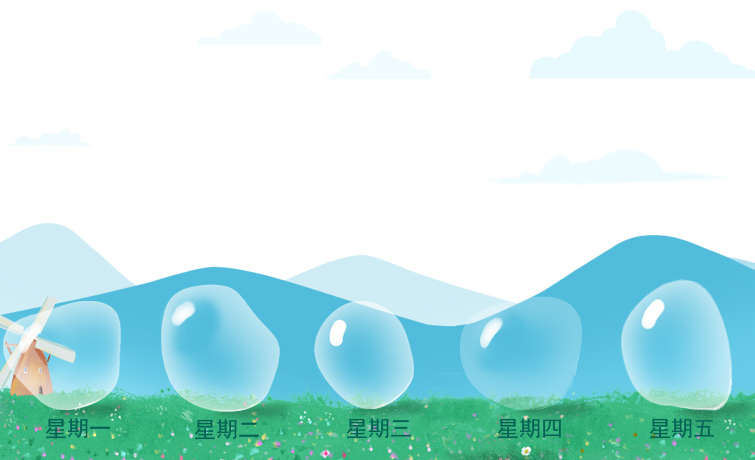
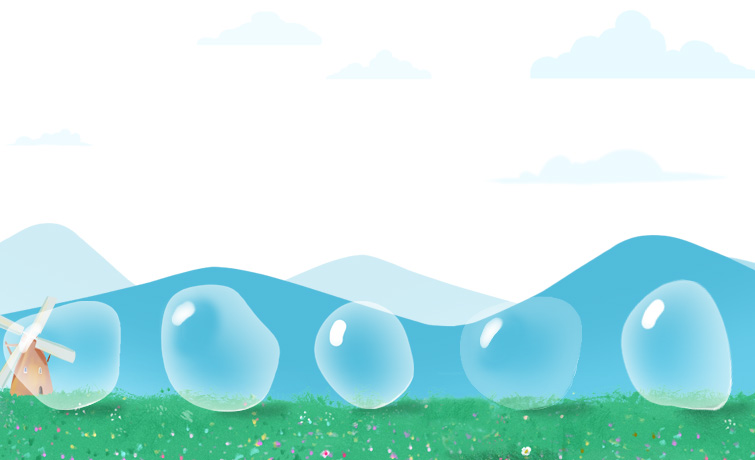
refactor duty-week-graph

diff --git a/src/views/WorkbenchSchoolRun.page.vue b/src/views/WorkbenchSchoolRun.page.vue
@@ -83,6 +83,142 @@
       </v-layout>
     </v-card>
 
+    <!-- duty graph -->
+    <v-card class="pa-3 mb-3">
+      <v-layout column>
+        <v-flex>
+          <v-layout row wrap>
+            <v-flex shrink>
+              <v-tabs v-model="model" centered slider-color="primary">
+                <v-tab href="#tab-1">
+                  值周
+                </v-tab>
+              </v-tabs>
+            </v-flex>
+          </v-layout>
+        </v-flex>
+        <v-flex>
+          <v-tabs-items v-model="model" class="pt-3">
+            <v-tab-item value="tab-1">
+              <v-card v-if="hasClasses" flat>
+                <!-- duty check one week -->
+                <!-- deduction week history graph -->
+                <div v-if="hasHistory" class="chart-wrapper fill-width pb-3">
+                  <h3 class="mb-2 duty-check-title">
+                    上周综合得分
+                    <span class="accent--text text--darken-2">8.5分</span>
+                  </h3>
+                  <div class="duty-check-image">
+                    <v-layout row wrap class="duty-check-content">
+                      <v-flex
+                        class="text-xs-center"
+                        v-for="(score, index) in currentCheckItem.scores"
+                        :key="score"
+                      >
+                        <div class="white--text display-1">
+                          {{ score }}
+                        </div>
+                        <div class="pt-3">{{ getDayName(index) }}</div>
+                      </v-flex>
+                    </v-layout>
+                  </div>
+                </div>
+                <div v-if="!hasHistory" class="loading-wrapper">
+                  <v-progress-circular
+                    indeterminate
+                    color="accent"
+                  ></v-progress-circular>
+                </div>
+                <!-- duty check detail list -->
+                <h3>扣分明细</h3>
+                <v-card-title class="pa-1">
+                  <v-text-field
+                    v-model="search"
+                    append-icon="search"
+                    label="搜索"
+                    single-line
+                    hide-details
+                  ></v-text-field>
+                </v-card-title>
+                <v-data-table
+                  :headers="headers"
+                  :items="currentDeductionList"
+                  class="elevation-0"
+                  hide-actions
+                  :search="search"
+                  no-data-text="暂无数据..."
+                  no-results-text="没有匹配的数据..."
+                  :pagination.sync="pagination"
+                >
+                  <template v-slot:items="props">
+                    <td class="text-xs-right">
+                      {{ formatDate(props.item.createTime) }}
+                    </td>
+                    <td class="text-xs-right">{{ props.item.checkName }}</td>
+                    <td class="text-xs-right">
+                      {{ props.item.changeScore }}分
+                    </td>
+                    <td class="text-xs-right">
+                      <div>
+                        {{ props.item.remarks }}
+                        <v-card
+                          v-if="showThumbnail(props.item.imageUrls)"
+                          class="pa-0 mt-1 elevation-0"
+                          @click="toShowSwiper(props.item.imageUrls)"
+                        >
+                          <v-container grid-list-sm class="pa-0" fluid>
+                            <v-layout
+                              v-if="props.item.imageUrls"
+                              class="images-wrapper"
+                              row
+                              wrap
+                            >
+                              <v-flex
+                                v-for="img in props.item.imageUrls"
+                                :key="img"
+                                xs6
+                                d-flex
+                              >
+                                <v-card flat tile class="d-flex pa-0">
+                                  <v-img
+                                    :src="img"
+                                    :lazy-src="img"
+                                    aspect-ratio="1"
+                                    class="grey lighten-2"
+                                  >
+                                    <template v-slot:placeholder>
+                                      <v-layout
+                                        fill-height
+                                        align-center
+                                        justify-center
+                                        ma-0
+                                      >
+                                        <v-progress-circular
+                                          indeterminate
+                                          color="grey lighten-5"
+                                        ></v-progress-circular>
+                                      </v-layout>
+                                    </template>
+                                  </v-img>
+                                </v-card>
+                              </v-flex>
+                            </v-layout>
+                          </v-container>
+                        </v-card>
+                      </div>
+                    </td>
+                  </template>
+                </v-data-table>
+              </v-card>
+              <div v-else class="both-center no-data-wrapper">
+                <img src="../assets/images/no_data.jpg" alt="" />
+              </div>
+            </v-tab-item>
+          </v-tabs-items>
+        </v-flex>
+      </v-layout>
+    </v-card>
+
     <!-- report -->
     <v-card class="pa-3">
       <v-layout column>
@@ -257,7 +393,8 @@ export default Vue.extend({
       showAllTopBtn: true,
       showLoading: false,
       search: '',
-      showGradeMenu: false
+      showGradeMenu: false,
+      classList: []
     }
   },
   computed: {
@@ -271,6 +408,10 @@ export default Vue.extend({
       return that
         .addRanking(that.topItems)
         .filter(e => e.grade === that.currentGrade.value)
+    },
+    hasClasses() {
+      const that: any = this
+      return that.classList.length > 0
     }
   },
   methods: {

diff --git a/src/views/WorkbenchTeacher.page.vue b/src/views/WorkbenchTeacher.page.vue
@@ -1,6 +1,5 @@
 <template>
   <div class="container pa-0">
-    <!-- <Header :showBack="true" title="工作台" @back="onBack"></Header> -->
     <v-speed-dial
       class="teacher-helper"
       fixed
@@ -141,27 +140,35 @@
           <v-tabs-items v-model="model" class="pt-3">
             <v-tab-item value="tab-1">
               <v-card v-if="hasClasses" flat>
-                <h3 class="mb-2">
-                  上周综合得分
-                  <span class="accent--text text--darken-2">8.5分</span>
-                </h3>
-                <!-- <h5 class="grey--text">超过 72% 的班级</h5> -->
+                <!-- duty check one week -->
                 <!-- deduction week history graph -->
-                <div v-if="hasHistory" class="chart-wrapper fill-width">
-                  <!-- <Chart
-                    v-if="chartOption"
-                    width="100%"
-                    height="300px"
-                    :option="chartOption"
-                  ></Chart> -->
+                <div v-if="hasHistory" class="chart-wrapper fill-width pb-3">
+                  <h3 class="mb-2 duty-check-title">
+                    上周综合得分
+                    <span class="accent--text text--darken-2">8.5分</span>
+                  </h3>
+                  <div class="duty-check-image">
+                    <v-layout row wrap class="duty-check-content">
+                      <v-flex
+                        class="text-xs-center"
+                        v-for="(score, index) in currentCheckItem.scores"
+                        :key="score"
+                      >
+                        <div class="white--text display-1">
+                          {{ score }}
+                        </div>
+                        <div class="pt-3">{{ getDayName(index) }}</div>
+                      </v-flex>
+                    </v-layout>
+                  </div>
                 </div>
                 <div v-if="!hasHistory" class="loading-wrapper">
                   <v-progress-circular
                     indeterminate
                     color="accent"
                   ></v-progress-circular>
-                  <!-- <p class="text-xs-center">暂无数据...</p> -->
                 </div>
+                <!-- duty check detail list -->
                 <h3>扣分明细</h3>
                 <v-card-title class="pa-1">
                   <v-text-field
@@ -359,7 +366,8 @@ export default Vue.extend({
       showClassMenu: false,
       chart: {} as ECharts,
       chartOption: null as EChartOption,
-      fab: false
+      fab: false,
+      tab: 0
     }
   },
   watch: {
@@ -382,6 +390,14 @@ export default Vue.extend({
         that.deductionWeekHistory &&
         that.deductionWeekHistory.map(e => e.checkName)
       )
+    },
+    currentCheckItem() {
+      const that: any = this
+
+      const deductionWeekHistory: DeductionHistoryByWeekItem =
+        that.deductionWeekHistory
+
+      return deductionWeekHistory[that.tab]
     },
     hasHistory() {
       const that: any = this
@@ -414,6 +430,25 @@ export default Vue.extend({
     this.scroll()
   },
   methods: {
+    getRandomNum() {
+      return Date.now() * Math.random()
+    },
+    getDayName(index: number) {
+      switch (index) {
+        case 0:
+          return '星期一'
+        case 1:
+          return '星期二'
+        case 2:
+          return '星期三'
+        case 3:
+          return '星期四'
+        case 4:
+          return '星期五'
+        default:
+          return ''
+      }
+    },
     goToGradeInputPage() {
       this.$router.push({
         name: 'grade-input'
@@ -637,6 +672,24 @@ export default Vue.extend({
 </script>
 
 <style lang="scss" scoped>
+.duty-check-title {
+  position: relative;
+  left: 10px;
+  top: 20px;
+}
+
+.duty-check-content {
+  position: relative;
+  top: -80px;
+}
+.duty-check-image {
+  width: 100%;
+  padding-top: 60.9271%;
+  background-image: url(../assets/images/duty_check_bg.jpg);
+  background-size: contain;
+  height: 0px;
+}
+
 .teacher-helper {
   z-index: 5000;
   bottom: 72px;
